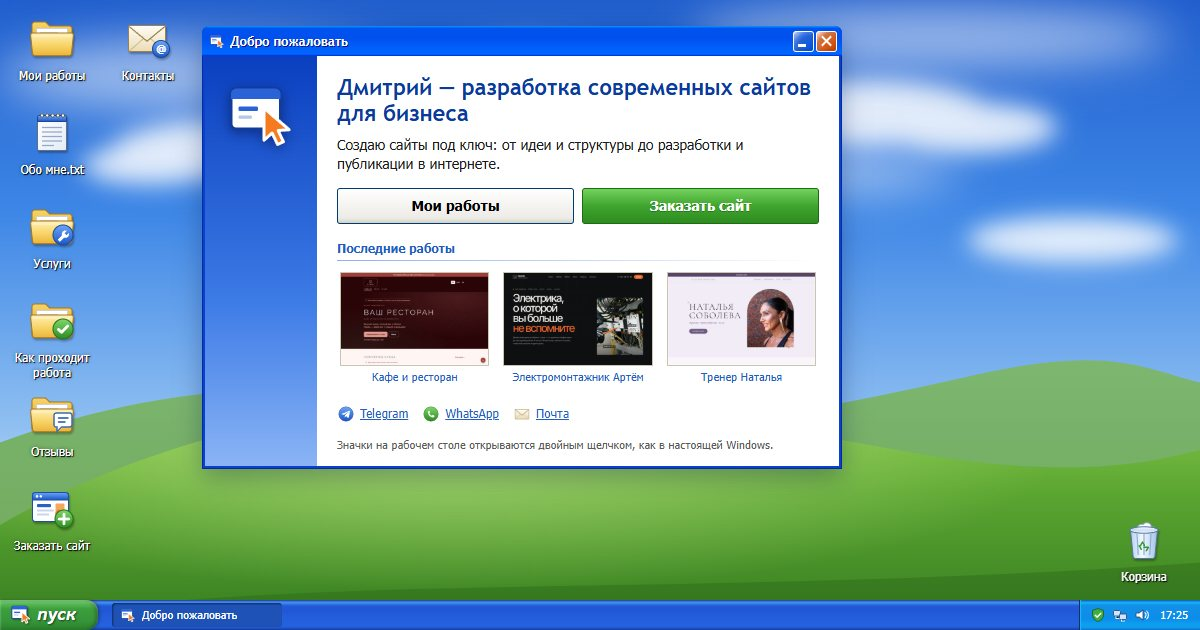
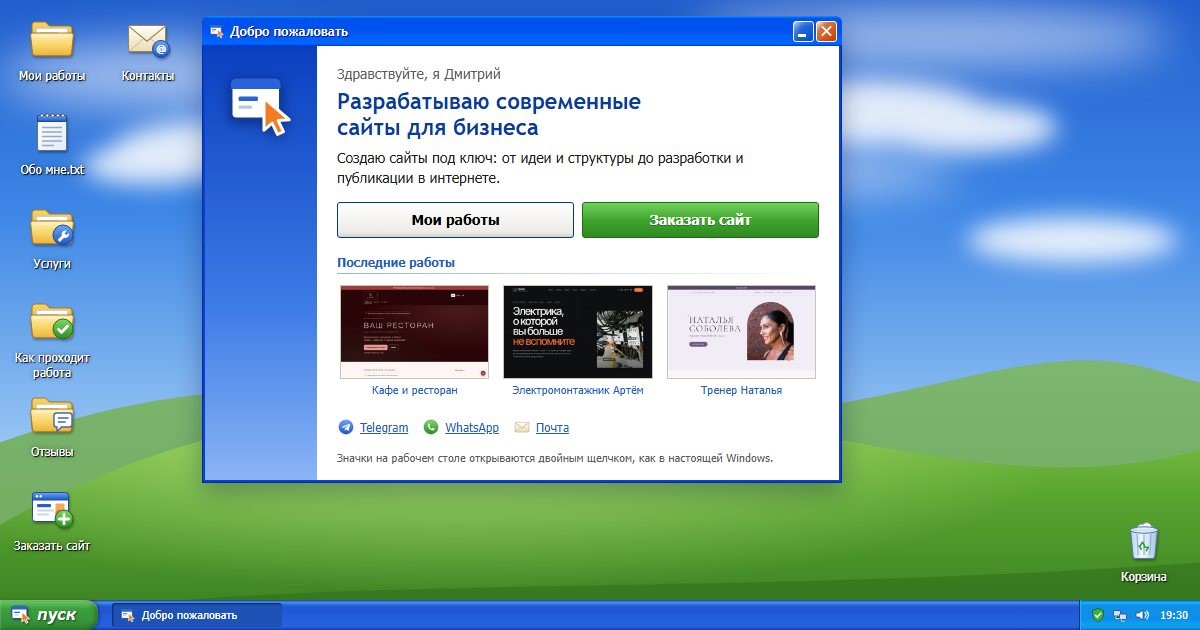
Первый экран от первого лица, имя файла в «Подробно» переносится

Changed region(s): [[0.1542, 0.0, 0.7092, 0.7841], [0.185, 0.1206, 0.2467, 0.2413], [0.9558, 0.9651, 0.9867, 0.9952]]

diff --git a/index.html b/index.html
@@ -3,13 +3,13 @@
 <head>
 <meta charset="utf-8">
 <meta name="viewport" content="width=device-width, initial-scale=1">
-<title>Дмитрий — разработка современных сайтов для бизнеса</title>
+<title>Дмитрий, разработчик сайтов для бизнеса</title>
 <meta name="description" content="Создаю сайты под ключ для малого бизнеса и частных специалистов: сайты-визитки, лендинги, многостраничные сайты, доработка и адаптация под телефоны. Портфолио с реальными работами.">
 <meta name="theme-color" content="#245edb">
 <meta property="og:type" content="website">
 <meta property="og:locale" content="ru_RU">
-<meta property="og:site_name" content="Дмитрий — разработка сайтов">
-<meta property="og:title" content="Дмитрий — разработка современных сайтов для бизнеса">
+<meta property="og:site_name" content="Дмитрий, разработчик сайтов">
+<meta property="og:title" content="Дмитрий, разработчик сайтов для бизнеса">
 <meta property="og:description" content="Создаю сайты под ключ: от идеи и структуры до разработки и публикации в интернете. Портфолио в виде рабочего стола Windows.">
 <meta property="og:url" content="https://dmitrii-studio.github.io/">
 <meta property="og:image" content="https://dmitrii-studio.github.io/assets/og.jpg">
@@ -18,7 +18,7 @@
 <meta name="twitter:card" content="summary_large_image">
 <link rel="canonical" href="https://dmitrii-studio.github.io/">
 <link rel="icon" href="assets/favicon.svg" type="image/svg+xml">
-<link rel="stylesheet" href="css/style.css?v=202611011404">
+<link rel="stylesheet" href="css/style.css?v=202611011430">
 <script>
   // Заставку показываем один раз за сеанс и никогда при «уменьшении движения»
   (function(d){d.classList.add('js');var seen=false;try{seen=sessionStorage.getItem('booted')==='1'}catch(e){}
@@ -292,7 +292,8 @@
   <section class="hero" id="hero">
     <div class="hero__side" aria-hidden="true"><svg><use href="#i-mark"/></svg></div>
     <div class="hero__body">
-      <h1>Дмитрий — разработка современных сайтов для бизнеса</h1>
+      <p class="hero__hello">Здравствуйте, я Дмитрий</p>
+      <h1>Разрабатываю современные сайты для бизнеса</h1>
       <p class="hero__sub">Создаю сайты под ключ: от идеи и структуры до разработки и публикации в интернете.</p>
       <div class="hero__cta">
         <a class="btn btn--big" href="#works" data-open="works">Мои работы</a>
@@ -480,7 +481,7 @@
   <button class="off__btn" id="poweron"><svg aria-hidden="true"><use href="#i-power"/></svg>Включить</button>
 </div>
 
-<script src="js/config.js?v=202611011404"></script>
-<script src="js/main.js?v=202611011404"></script>
+<script src="js/config.js?v=202611011430"></script>
+<script src="js/main.js?v=202611011430"></script>
 </body>
 </html>

diff --git a/css/style.css b/css/style.css
@@ -373,7 +373,7 @@ textarea { resize: vertical; }
 .tp li svg { width: 16px; height: 16px; flex: none; }
 .tp__body { padding: 8px 10px 10px; background: #d6dff7; border: 1px solid #fff; border-top: 0; font-size: 12px; }
 .tp__body p { margin: 4px 0 8px; color: #333; }
-.tp__body b { display: block; }
+.tp__body b { display: block; overflow-wrap: anywhere; }
 
 .files {
   flex: 1; min-width: 0; overflow: auto;
@@ -711,7 +711,8 @@ body.is-standby::after { content: ""; position: fixed; inset: 0; z-index: 9999; 
 }
 .hero__side svg { width: 72px; height: 72px; filter: drop-shadow(0 3px 6px rgba(0, 0, 40, .4)); }
 .hero__body { flex: 1; min-width: 0; padding: 18px 20px 14px; }
-.hero h1 { margin: 0 0 8px; font: 700 22px/1.2 "Trebuchet MS", var(--ui); color: #0b3a9e; }
+.hero__hello { margin: 0 0 4px; font-size: 14px; color: var(--muted); }
+.hero h1 { margin: 0 0 8px; font: 700 22px/1.2 "Trebuchet MS", var(--ui); color: #0b3a9e; text-wrap: balance; }
 .hero__sub { margin: 0 0 14px; font-size: 14px; }
 .hero__cta { display: flex; flex-wrap: wrap; gap: 8px; margin-bottom: 16px; }
 .btn--big { flex: 1 1 140px; min-height: 36px; font-size: 14px; font-weight: 700; }

diff --git a/js/main.js b/js/main.js
@@ -449,7 +449,7 @@
           `<li><button data-action="bin-empty">${ico('bin')}<span>Очистить корзину</span></button></li>`,
           paneBtn('works', 'folder', 'Лучше посмотреть работы')
         ])}</section>`,
-        detailsFor: (it) => `<b>${esc(it.name)}</b><p>${esc(it.what)}<br>Удалён: из моей практики</p>`,
+        detailsFor: (it) => `<b>${esc(it.name).replace(/_/g, '_<wbr>')}</b><p>${esc(it.what)}<br>Удалён: из моей практики</p>`,
         onOpen: () => alertBox({
           title: 'Ошибка открытия файла',
           icon: 'error',
